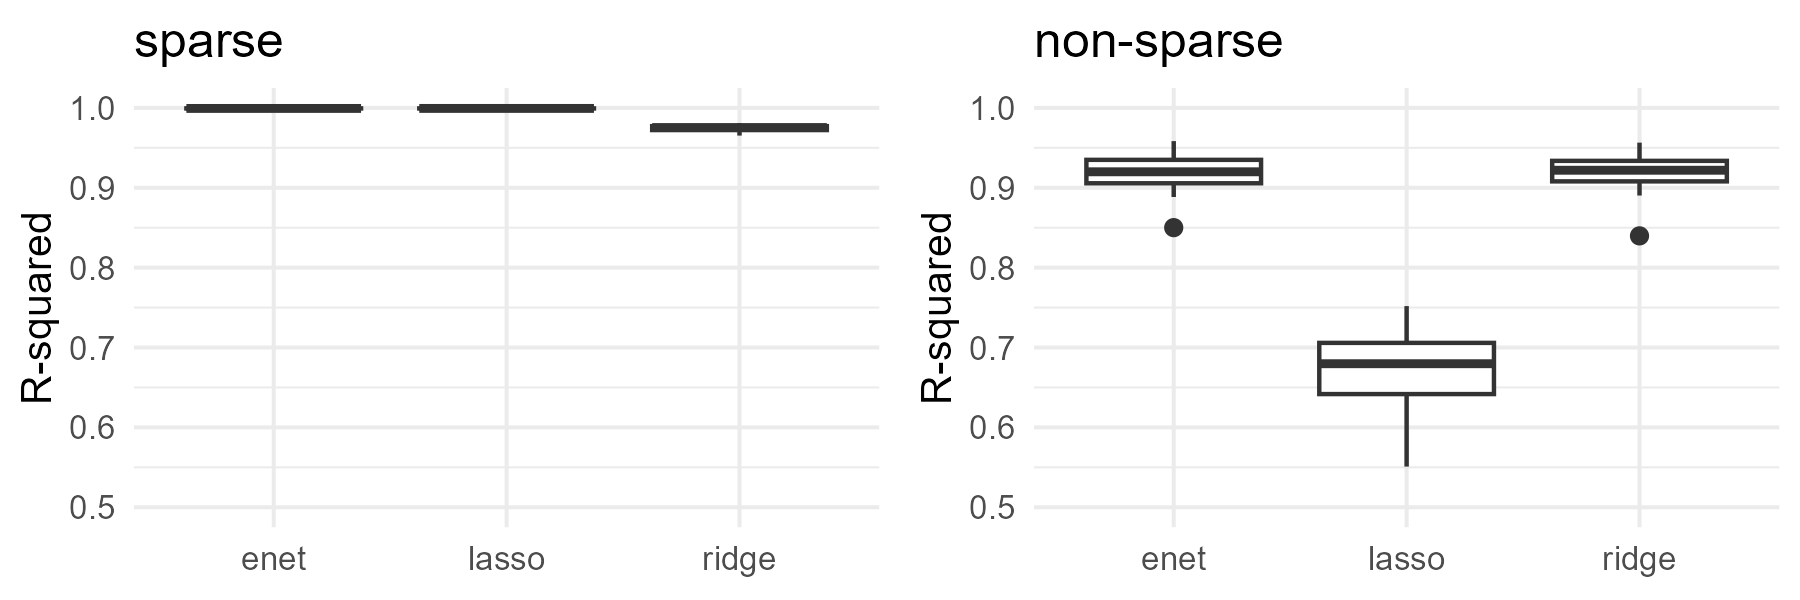
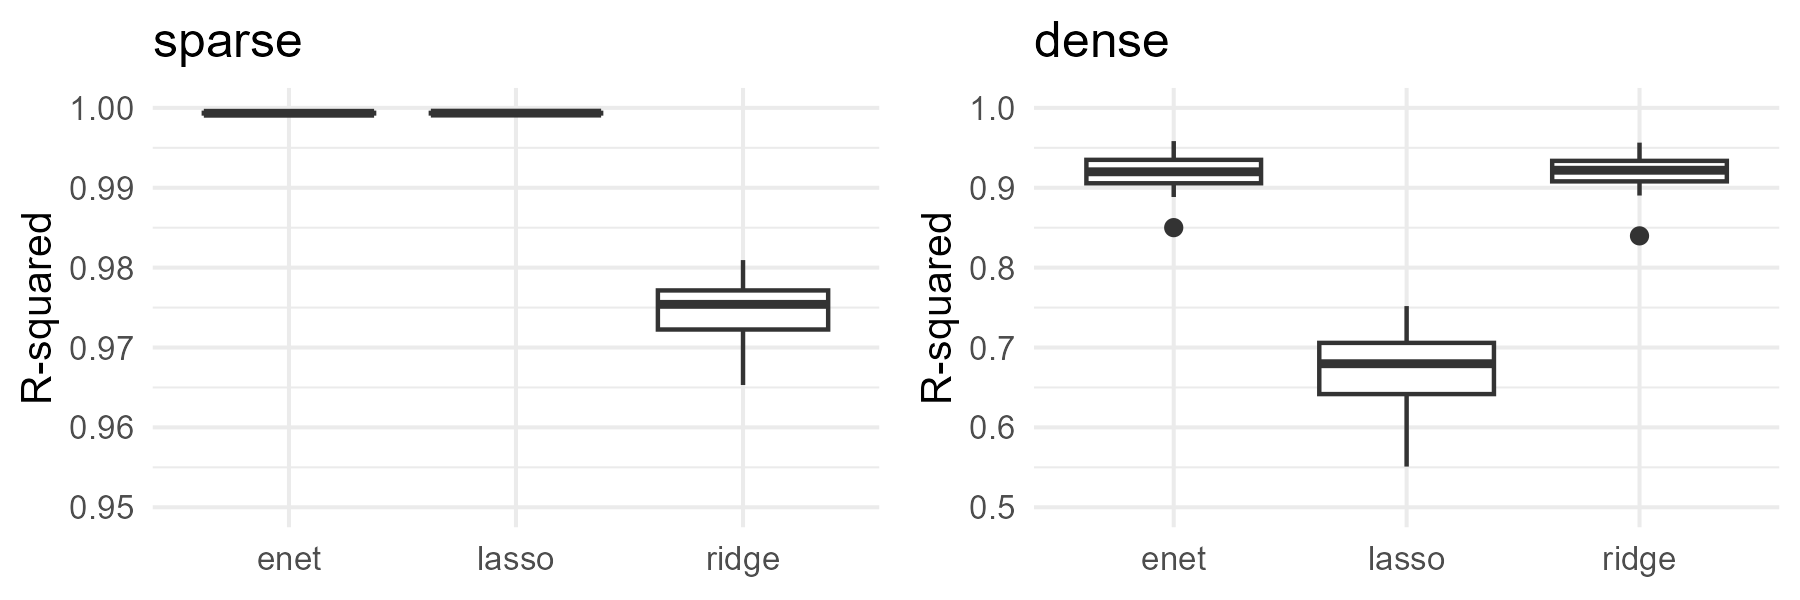
OL pre-meeting updates

diff --git a/slides/regularization/slides-regu-enetlogreg.tex b/slides/regularization/slides-regu-enetlogreg.tex
@@ -35,22 +35,20 @@
 \begin{vbframe} {Simulated Example}
 
 \footnotesize
-50 data sets with $n=100$ for setups: $y =\xv^T \thetab + \epsilon; \quad \epsilon \sim N(0,1);
-  \quad \xv \sim N(0, \Sigma)$: 
+5-fold CV with $n_{train}=100$ and 20 repetitions with $n_{test}=10000$ for setups: $y =\xv^T \thetab + \epsilon; \quad \epsilon \sim N(0,0.1^2);
+  \quad \xv \sim N(0, \Sigma); \quad\Sigma_{k,l}=0.8^{|k-l|}$: 
 \vspace{-0.3cm}
 \begin{columns}
 \begin{column}{0.5\textwidth}
 \begin{center}
-{\footnotesize \textbf{Ridge} better for corr. features}: \\ 
-$\thetab=(\underbrace{2,\ldots,2}_{5},\underbrace{0,\ldots,0}_{5})$\\
-$ \Sigma_{k,l}=0.8^{|k-l|}$ 
+{\footnotesize \textbf{Lasso} better for sparse features:} \\ 
+$\thetab=(\underbrace{1,\ldots,1}_{5},\underbrace{0,\ldots,0}_{495})$\\
   \end{center}
 \end{column}
 \begin{column}{0.5\textwidth} 
 \begin{center}
-{\footnotesize \textbf{Lasso} better for sparse without corr.:} \\
-$\thetab=(2, 2, 2,\underbrace{0,\ldots,0}_{7})$ \\
-$ \Sigma = I_p$ 
+{\footnotesize \textbf{Ridge} better for dense features:} \\
+$\thetab=(\underbrace{1,\ldots,1,1,\ldots,1}_{500})$ \\
 \end{center}
 \end{column}
 \end{columns}
@@ -67,9 +65,9 @@ $ \Sigma = I_p$
 
 
 \footnotesize
-LHS: ridge cannot perform variable selection compared to lasso/e-net. \\
+LHS: ridge estimates of noise features hover around $0$ while lasso/e-net produce $0$s. \\
+RHS: ridge cannot perform variable selection compared to lasso/e-net. \\
 Lasso more frequently ignores relevant features than e-net (longer tails in violin plot).\\
-RHS: ridge estimates of noise features hover around $0$ while lasso/e-net produce $0$s.
 %Since Elastic Net offers a compromise between Ridge and lasso, it is suitable for both data situations.
 
 \end{vbframe}

diff --git a/slides/advriskmin/slides-advriskmin-bias-variance-decomposition.tex b/slides/advriskmin/slides-advriskmin-bias-variance-decomposition.tex
@@ -256,6 +256,7 @@ $$GE_n\left(\ind_{L}\right) \approx 1 + 0.008 + 0.082 = 1.091 $$
 
 \begin{vbframe}{Approximation and Estimation \citelink{BROWN2024BIAS} }
 The Bias-Variance decomp is often confused or equated with the related (but different) decomp of \textbf{excess risk} into \textbf{estimation} and \textbf{approximation} error.
+\vspace{-0.3cm}
 
 \begin{eqnarray*}
     \underbrace{\risk(\hat f_{\Hspace}) - \risk(\fbayes_{\Hspace_{all}})}_{\text{excess risk}} &=& \underbrace{\risk(\hat f_{\Hspace}) - \risk(\fbayes_{\Hspace})}_{\text{estimation error}} + \underbrace{\risk(\fbayes_{\Hspace}) -  \risk(\fbayes_{\Hspace_{all}})}_{\text{approx. error}} 
@@ -265,14 +266,15 @@ Both are commonly described using the same figure and analogies
 \vspace{-0.1cm}
 \begin{figure}
     \centering
-    \includegraphics[width = 0.78\textwidth]{figure_man/biasvar-vs-estapprox-tradeoff.png}
+    \includegraphics[width = 0.7\textwidth]{figure_man/biasvar-vs-estapprox-tradeoff.png}
     \tiny{\\ Credit: \cite{BROWN2024BIAS}}
   \end{figure}
 
+{\footnotesize \textbf{NB}: It should be noted that the bias-variance decomp. only holds for certain losses, while the above decomposition is universal.}
 
-+end{vbframe}
+\end{vbframe}
 
-\framebreak
+%\framebreak
 
 \begin{vbframe}{Approx./Estimation Error \citelink{BROWN2024BIAS}}
     

diff --git a/slides/advriskmin/chapter-order.tex b/slides/advriskmin/chapter-order.tex
@@ -41,6 +41,9 @@
 \subsection{Logistic Regression (Deep-Dive)}
 \includepdf[pages=-]{../../slides-pdf/slides-advriskmin-logreg-deepdive.pdf}
 
+\subsection{Proper Scoring Rules}
+\includepdf[pages=-]{../../slides-pdf/slides-advriskmin-proper-scoring-rules.pdf}
+
 \subsection{Brier Score}
 \includepdf[pages=-]{../../slides-pdf/slides-advriskmin-classification-brier.pdf}
 
